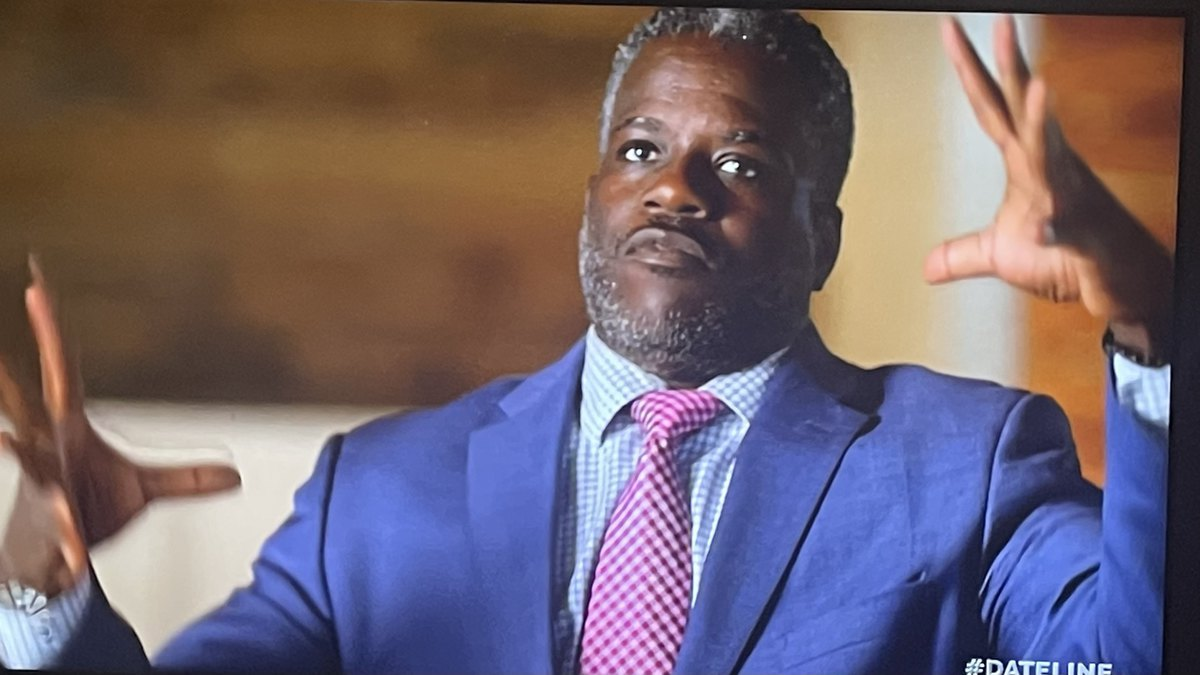
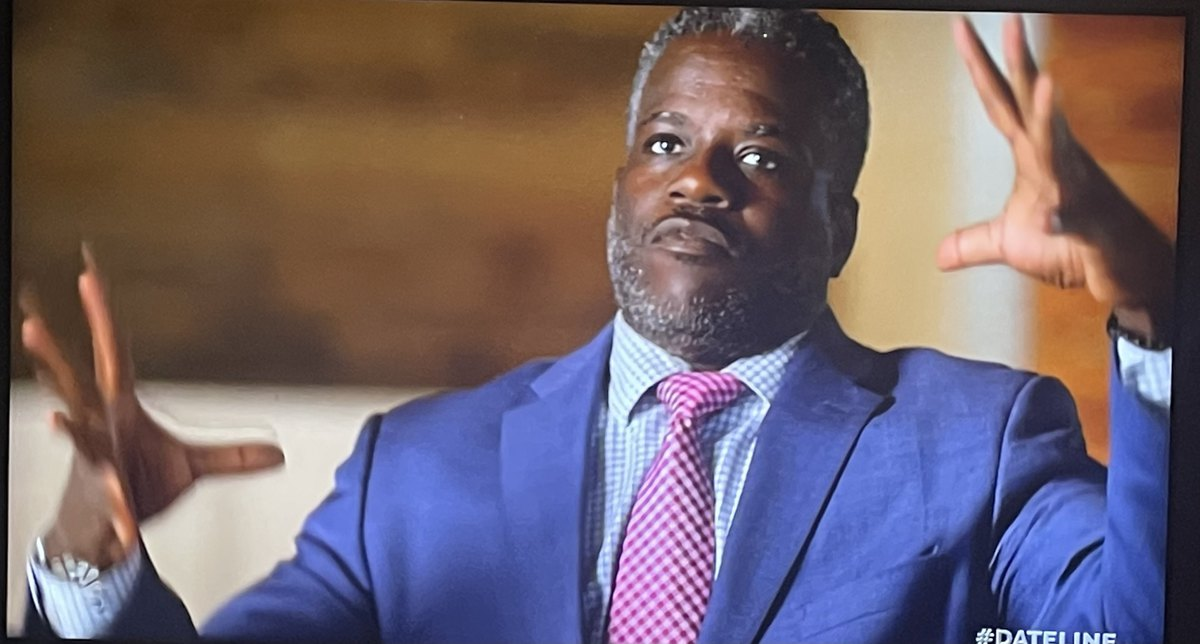
Show media stills uncropped with boxes matched to image ratio
- Dateline: use the full original frame (no crop)
- NBC 7: trim only the black letterbox bars; full broadcast picture kept
- Render at natural aspect (h-auto w-full) instead of a fixed 16:9 crop box

diff --git a/app/attorney/page.tsx b/app/attorney/page.tsx
@@ -120,8 +120,8 @@ export default function AttorneyPage() {
                   src="/images/media-dateline.jpg"
                   alt="Attorney Marcus E. DeBose interviewed on Dateline NBC"
                   width={1200}
-                  height={675}
-                  className="aspect-video w-full object-cover"
+                  height={644}
+                  className="h-auto w-full"
                 />
                 <figcaption className="px-4 py-3 text-sm text-cream-dim">
                   Featured as a legal analyst on <span className="text-cream">Dateline NBC</span>
@@ -132,8 +132,8 @@ export default function AttorneyPage() {
                   src="/images/media-nbc.jpg"
                   alt="Attorney Marcus E. DeBose interviewed as a defense attorney on NBC 7 San Diego"
                   width={1200}
-                  height={675}
-                  className="aspect-video w-full object-cover"
+                  height={667}
+                  className="h-auto w-full"
                 />
                 <figcaption className="px-4 py-3 text-sm text-cream-dim">
                   Legal commentary on <span className="text-cream">NBC 7 San Diego</span>
